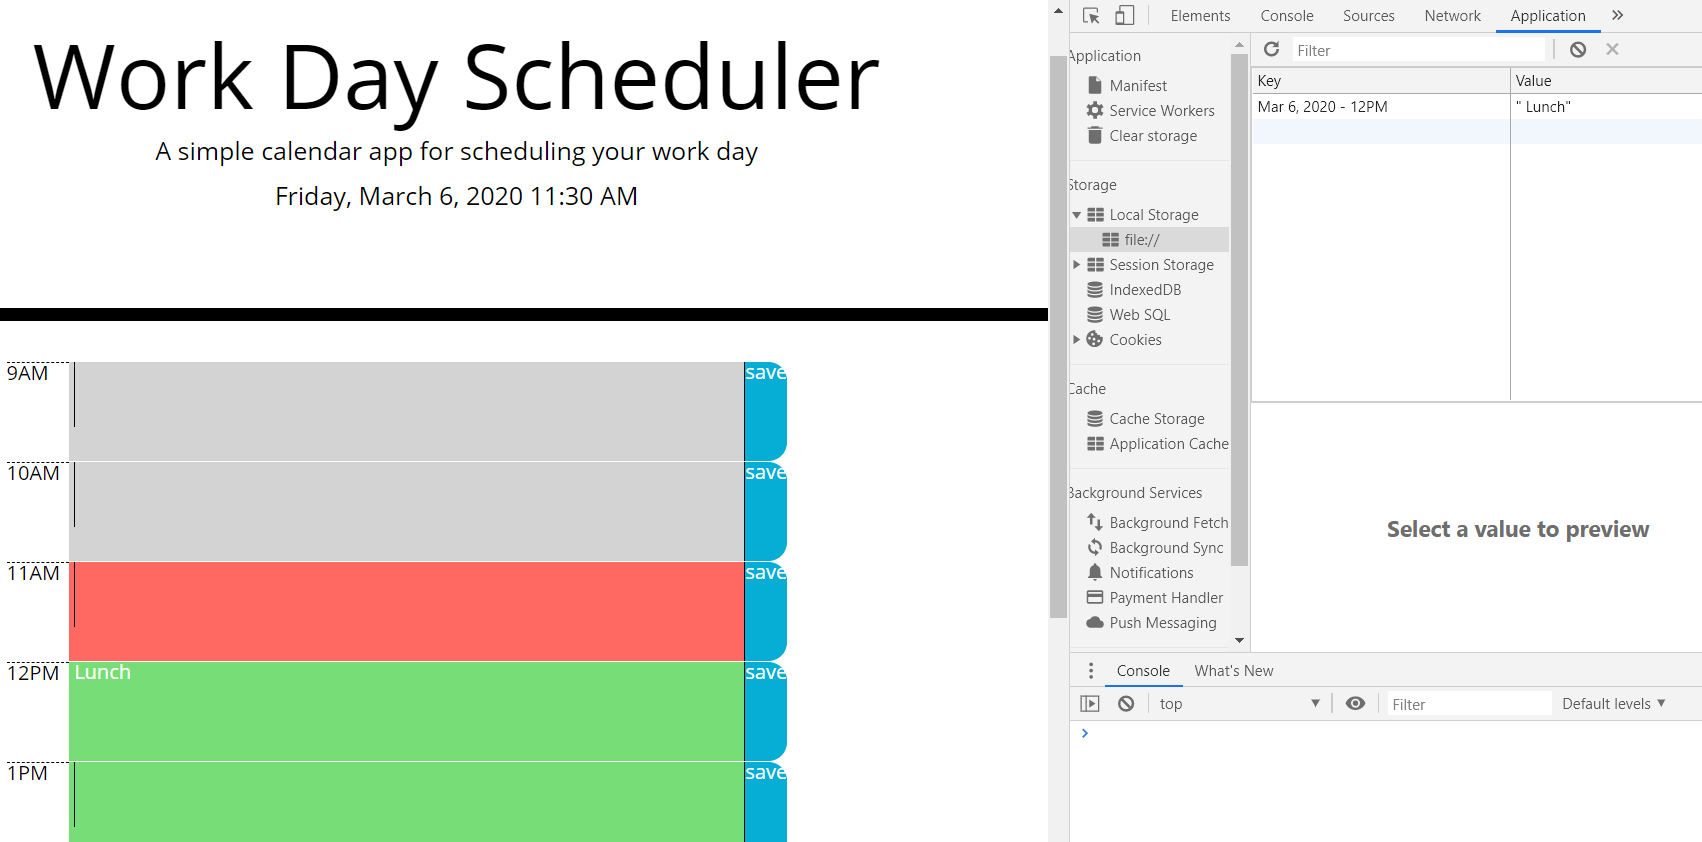
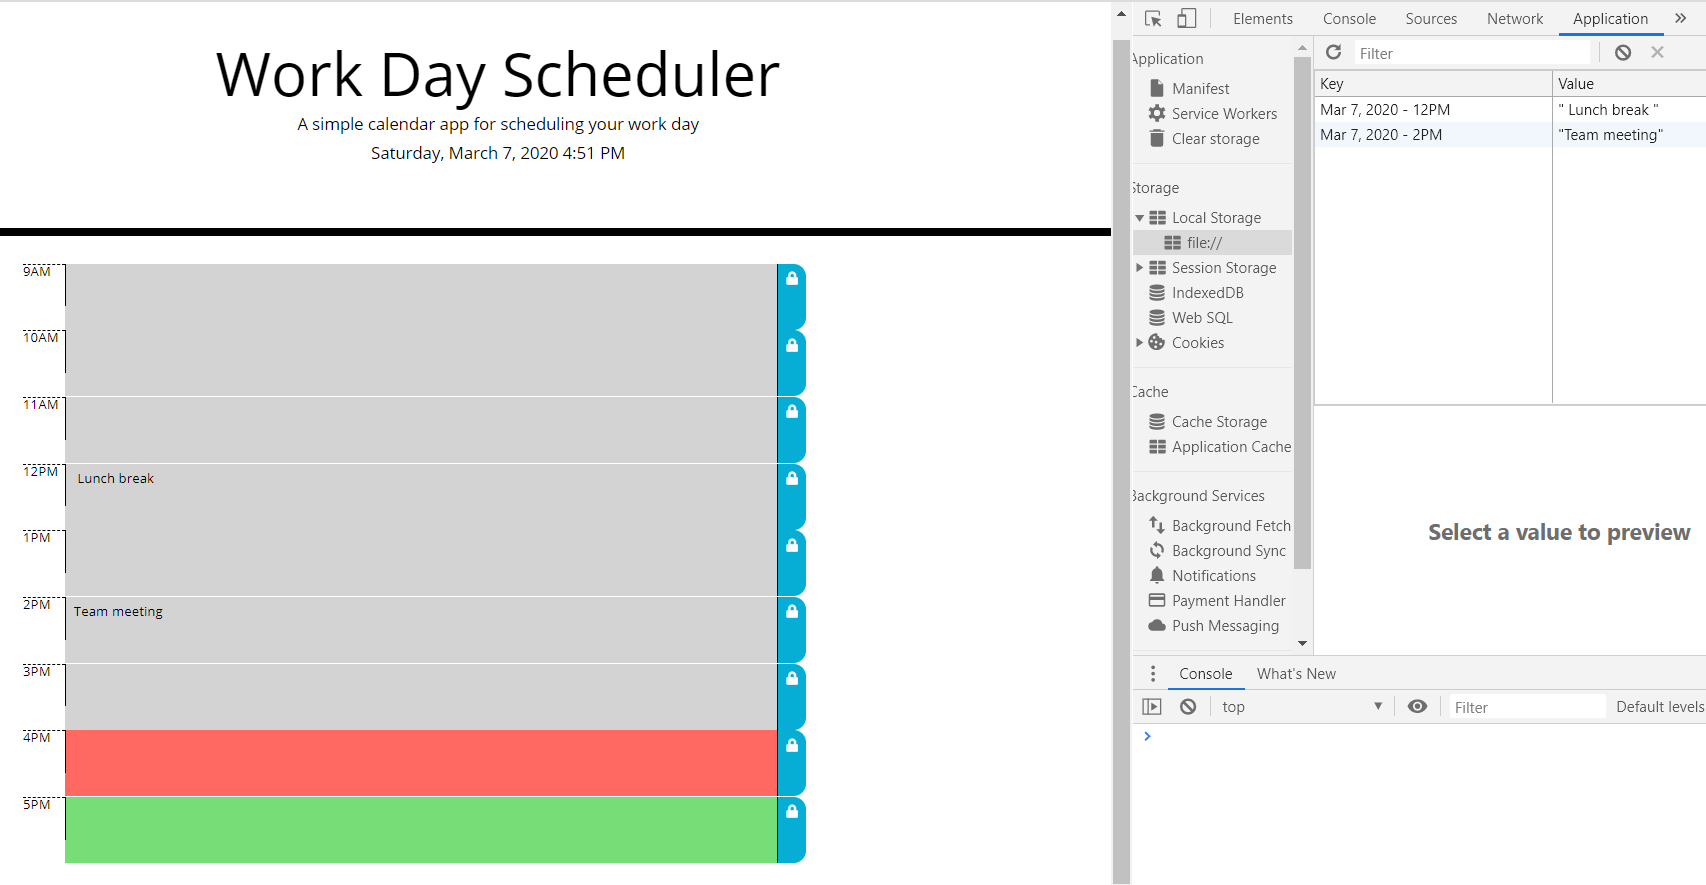
add modifications

diff --git a/assets/javascript.js b/assets/javascript.js
@@ -1,4 +1,4 @@
-//Display date in header using moment.js//
+//Display current date in header using moment.js//
 $("#currentDay").text(moment().format('LLLL'))
 
 //Time array to be displayed in time column//
@@ -6,40 +6,44 @@ let times = ["9AM", "10AM", "11AM", "12PM", "1PM", "2PM", "3PM", "4PM", "5PM"]
 //24 hour time array to be used in 'value' attribute//
 let value = [9, 10, 11, 12, 13, 14, 15, 16, 17]
 
-//create elements for timeblocks//
+//create timeblocks and allow user to update them //
 for (let i = 0; i < times.length; i++) {
     const timeContainer = $(".container")
-    const timeRow = $("<div> </div>").attr("class", "row")
-    //column with times displayed//
-    const timeColumn = $("<div> </div>").attr("class", "hour").text(times[i])
-    //Columns for task display, also append 'text area' input box to appear within commentColumn//
-    const commentColumn = $("<div> </div>").attr("value", value[i])
-    const textArea = $("<textarea> </textarea>")
-    commentColumn.append(textArea)
-    //setting 'past', 'present' and 'future' class attributes to commentColumn using current hour from moment.js//
-    if (value[i] == moment().format('H')) {
-        commentColumn.attr("class", "present")
-    }
-    else if (value[i] > moment().format('H')) {
-        commentColumn.attr("class", "future")
-    }
-    else { commentColumn.attr("class", "past") }
+    const timeRow = $("<div>").attr("class", "row")
 
-    //If there are any items in Local Storage with today's date, append to commentColumn//
+    //column with times displayed//
+    const timeColumn = $("<div>").attr("class", "hour").text(times[i])
+
+    //textArea input box to appear within 'textColumn'//
+    const textColumn = $("<div>").attr("value", value[i])
+    const textArea = $("<textarea>")
+    textColumn.append(textArea)
+
+    //Get any items in Local Storage with today's date and display in textArea//
     const tasks = JSON.parse(localStorage.getItem(moment().format('ll') + " - " + times[i]))
     if (tasks !== null) {
-        commentColumn.text(tasks)
+        textArea.text(tasks)
     }
-    //column with save buttons//
-    const saveButton = $("<div></div>").attr("class", "saveBtn").text("save")
+    //color code textColumn by setting 'past', 'present' and 'future' class attributes using current hour from moment.js//
+    if (value[i] == moment().format('H')) {
+        textColumn.attr("class", "present")
+    }
+    else if (value[i] > moment().format('H')) {
+        textColumn.attr("class", "future")
+    }
+    else { textColumn.attr("class", "past") }
+
+    //create column with save buttons//
+    const saveButton = $("<div>").attr("class", "saveBtn")
+    saveButton.append($("<i>").attr("class", "fas fa-lock"))
+
     //append children to time row//
-    timeRow.append(timeColumn, commentColumn, saveButton)
+    timeRow.append(timeColumn, textColumn, saveButton)
     timeContainer.append(timeRow)
 
-    //after 'save' button is clicked, save text with today's date to local storage//
+    //after 'save' button is clicked, save input under today's date to local storage//
     saveButton.on("click", function () {
-        const input = textArea.val()
-        commentColumn.text(input)
+        const input = textArea.val().trim()
         localStorage.setItem((moment().format('ll') + " - " + times[i]), JSON.stringify(input))
     })
 

diff --git a/assets/style.css b/assets/style.css
@@ -12,7 +12,7 @@ textarea{
   color: #000000;
   border-left: 1px solid black;
   padding: 10px;
-  width: 75%;
+  width: 100%;
 }
 
 .jumbotron { 
@@ -70,7 +70,8 @@ textarea{
   background-color: #06AED5;
   color: white;
   cursor: pointer;
-  width: 5%;
+  text-align: center; 
+  padding: 10px;
 }
 
 .saveBtn i:hover {
